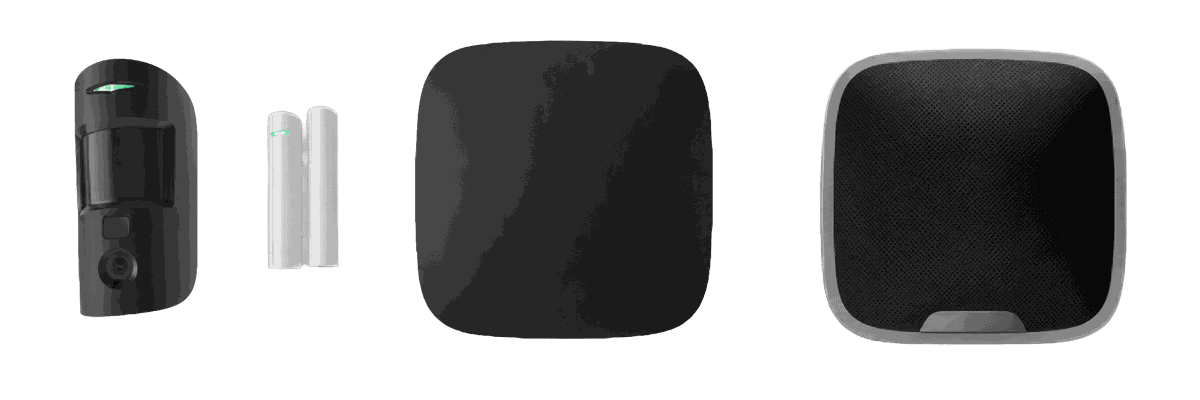
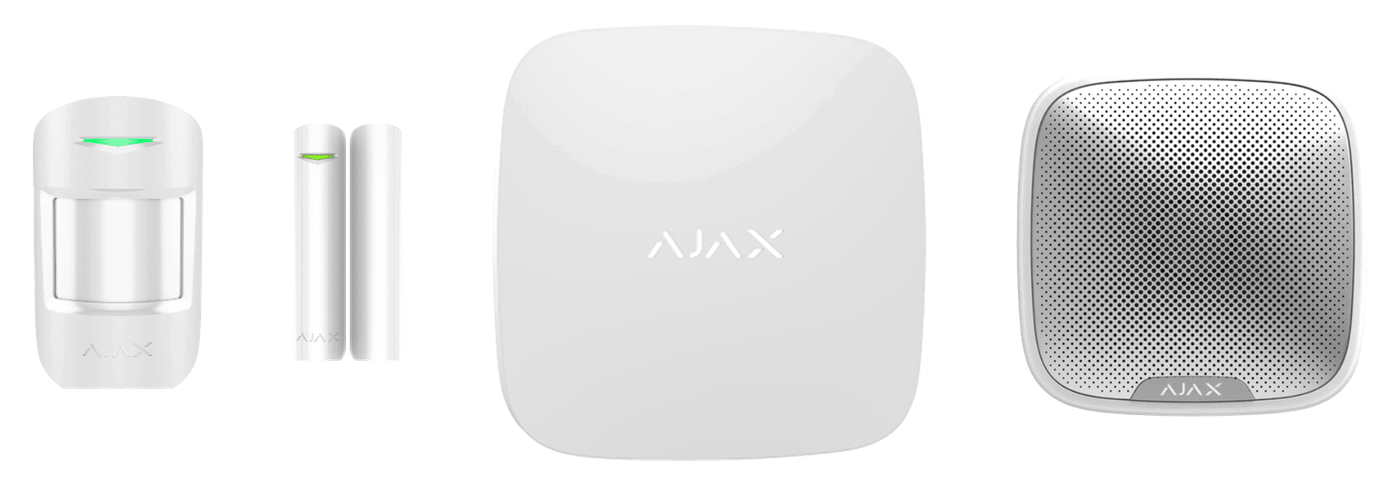
Paquete Ajax Plus Premium: imagen en alta resolucion (renders oficiales, variante blanca)
La imagen anterior era un recorte de baja resolucion y posterizado; el Hub 2 Plus
y la sirena se veian como manchas negras sobre el fondo oscuro de la tarjeta.

- Nueva composicion 1400x484 con renders de producto en alta (MotionProtect,
  DoorProtect, Hub 2 Plus y StreetSiren), escalados a proporcion real
- Variante blanca: contrasta sobre la tarjeta oscura y empata con los paquetes 1 y 2
- Cache-buster ?v=2 en comercial.html y residencial.html

diff --git a/comercial.html b/comercial.html
@@ -2542,7 +2542,7 @@
             <li><i class="ph-fill ph-check-circle"></i> 1 Sensor de movimiento inalámbrico</li>
             <li><i class="ph-fill ph-check-circle"></i> 1 Sirena Exterior Reforzada inalámbrica</li>
           </ul>
-          <div class="paquete-img"><img loading="lazy" decoding="async" src="assets/paquete-03-img.png" alt="Paquete Ajax Plus Premium"></div>
+          <div class="paquete-img"><img loading="lazy" decoding="async" src="assets/paquete-03-img.png?v=2" alt="Paquete Ajax Plus Premium"></div>
           <a href="https://wa.me/5218120409959?text=Hola%2C%20me%20interesa%20el%20Paquete%20Ajax%20Plus%20Premium.%20%C2%BFMe%20pueden%20dar%20m%C3%A1s%20informaci%C3%B3n%3F" class="btn btn-outline" target="_blank" rel="noopener">Más información a tu medida</a>
         </div>
 

diff --git a/residencial.html b/residencial.html
@@ -3029,7 +3029,7 @@
             <li><i class="ph-fill ph-check-circle"></i> 1 Sensor de movimiento inalámbrico</li>
             <li><i class="ph-fill ph-check-circle"></i> 1 Sirena Exterior Reforzada inalámbrica</li>
           </ul>
-          <div class="paquete-img"><img loading="lazy" decoding="async" src="assets/paquete-03-img.png" alt="Paquete Ajax Plus Premium"></div>
+          <div class="paquete-img"><img loading="lazy" decoding="async" src="assets/paquete-03-img.png?v=2" alt="Paquete Ajax Plus Premium"></div>
           <a href="https://wa.me/5218120409959?text=Hola%2C%20me%20interesa%20el%20Paquete%20Ajax%20Plus%20Premium.%20%C2%BFMe%20pueden%20dar%20m%C3%A1s%20informaci%C3%B3n%3F" class="btn btn-outline" target="_blank" rel="noopener">Más información a tu medida</a>
         </div>
 
